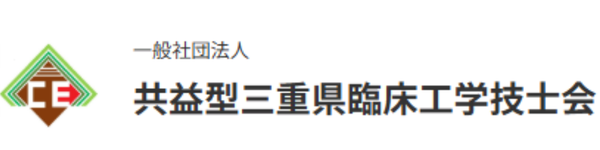
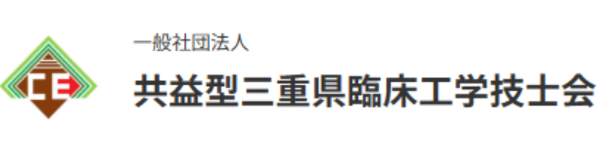
Add files via upload

Changed region(s): [[0.21, 0.48, 1.0, 0.7733], [0.0, 0.24, 0.18, 0.8533], [0.21, 0.2133, 0.42, 0.4]]

diff --git a/exhibition.html b/exhibition.html
@@ -28,6 +28,7 @@
         .index-item:hover { background: var(--primary-color); color: #fff; border-color: var(--primary-color); transform: translateY(-2px); box-shadow: 0 4px 10px rgba(0,0,0,0.1); }
         
         .company-showcase { margin-bottom: 60px; background: #fff; border-radius: 12px; box-shadow: 0 10px 30px rgba(0,0,0,0.05); overflow: hidden; border: 1px solid #f1f5f9; scroll-margin-top: 100px; }
+        .company-showcase:last-of-type { margin-bottom: 80px; }
         .company-header { background: #f8fafc; padding: 20px 30px; border-bottom: 1px solid #e2e8f0; display: flex; align-items: center; justify-content: space-between; }
         .company-header h3 { font-size: 1.5rem; color: var(--primary-color); margin: 0; display: flex; align-items: center; }
         .company-logo-area { background: #fff; padding: 10px; border-radius: 8px; border: 1px solid #e2e8f0; height: 60px; width: 180px; display: flex; align-items: center; justify-content: center; }
@@ -107,19 +108,49 @@
             <div id="company-index" class="exhibition-index">
                 <h3><i class="fas fa-search"></i> 出展企業一覧</h3>
                 <div class="index-grid">
-                    <a href="#sponsor-awl" class="index-item"><i class="fas fa-building"></i> エア・ウォーター・リンク</a>
                     <a href="#sponsor-ebmc" class="index-item"><i class="fas fa-building"></i> イービーエム</a>
-                    <a href="#sponsor-asp" class="index-item"><i class="fas fa-building"></i> ASP Japan</a>
+                    <a href="#sponsor-awl" class="index-item"><i class="fas fa-building"></i> エア・ウォーター・リンク</a>
+                    <a href="#sponsor-asp" class="index-item"><i class="fas fa-building"></i> ASP Japan合同会社</a>
+                    <a href="#sponsor-ms" class="index-item"><i class="fas fa-building"></i> エムエス</a>
                     <a href="#sponsor-cosmos" class="index-item"><i class="fas fa-building"></i> コスモスシステム</a>
                     <a href="#sponsor-takarabelmont" class="index-item"><i class="fas fa-building"></i> タカラベルモント</a>
                     <a href="#sponsor-terumo" class="index-item"><i class="fas fa-building"></i> テルモ</a>
-                    <!-- 🌟 目次に冨木医療器を追加 -->
                     <a href="#sponsor-tomiki" class="index-item"><i class="fas fa-building"></i> 冨木医療器</a>
+                    <!-- 🌟 目次に日本ストライカーを追加 -->
+                    <a href="#sponsor-stryker" class="index-item"><i class="fas fa-building"></i> 日本ストライカー</a>
                     <a href="#sponsor-nipro" class="index-item"><i class="fas fa-building"></i> ニプロ</a>
+                    <!-- 🌟 目次にLifescan Japanを追加 -->
+                    <a href="#sponsor-lifescan" class="index-item"><i class="fas fa-building"></i> Lifescan Japan</a>
                     <a href="#sponsor-miekinzoku" class="index-item"><i class="fas fa-building"></i> 三重金属工業</a>
                 </div>
             </div>
             
+            <div id="sponsor-ebmc" class="company-showcase">
+                <div class="company-header">
+                    <h3>イービーエム株式会社</h3>
+                    <div class="company-logo-area">
+                        <img src="images/sponsor_ebmc.png" alt="イービーエム">
+                    </div>
+                </div>
+                <div class="company-body">
+                    <div class="company-info">
+                        <h4>手技の「質」を高め、CEの職能向上を牽引する</h4>
+                        <p>高度な生体再現性を持つ血管モデルと、心拍動下での吻合訓練を可能にするシミュレータを提供し、臨床現場に出る前の「質の高い反復練習」を実現します。<br>
+                        特筆すべきは、臨床工学技士の「告示研修」で使用されるシミュレータを全て同社が手掛けているという点です。私たちの職能拡大と技術向上に最も深く関わり、チーム医療におけるCEの存在価値を高める強力なパートナー企業です。</p>
+                        <ul class="feature-list">
+                            <li>臨床工学技士「告示研修」のシミュレータを全面プロデュース</li>
+                            <li>ヒト組織の弾性・粘性を極限まで再現した血管モデル「YOUCAN」</li>
+                            <li>手技評価の客観化を可能にする拍動シミュレータ「BEAT」</li>
+                        </ul>
+                        <a href="https://ebmc.jp/" target="_blank" class="btn-visit">公式サイトを見る <i class="fas fa-external-link-alt"></i></a>
+                    </div>
+                    <div class="company-image" style="border: none; background: transparent;">
+                        <img src="images/exhibition_ebmc.jpg" alt="イービーエム シミュレータ製品写真">
+                    </div>
+                </div>
+                <a href="#company-index" class="back-to-index"><i class="fas fa-level-up-alt"></i> 出展企業一覧（目次）へ戻る</a>
+            </div>
+
             <div id="sponsor-awl" class="company-showcase">
                 <div class="company-header">
                     <h3>エア・ウォーター・リンク株式会社</h3>
@@ -146,37 +177,11 @@
                 <a href="#company-index" class="back-to-index"><i class="fas fa-level-up-alt"></i> 出展企業一覧（目次）へ戻る</a>
             </div>
 
-            <div id="sponsor-ebmc" class="company-showcase">
-                <div class="company-header">
-                    <h3>イービーエム株式会社</h3>
-                    <div class="company-logo-area">
-                        <img src="images/sponsor_ebmc.png" alt="イービーエム">
-                    </div>
-                </div>
-                <div class="company-body">
-                    <div class="company-info">
-                        <h4>手技の「質」を高め、CEの職能向上を牽引する</h4>
-                        <p>高度な生体再現性を持つ血管モデルと、心拍動下での吻合訓練を可能にするシミュレータを提供し、臨床現場に出る前の「質の高い反復練習」を実現します。<br>
-                        特筆すべきは、<strong>臨床工学技士の「告示研修」で使用されるシミュレータを全て同社が手掛けている</strong>という点です。私たちの職能拡大と技術向上に最も深く関わり、チーム医療におけるCEの存在価値を高める強力なパートナー企業です。</p>
-                        <ul class="feature-list">
-                            <li>臨床工学技士「告示研修」のシミュレータを全面プロデュース</li>
-                            <li>ヒト組織の弾性・粘性を極限まで再現した血管モデル「YOUCAN」</li>
-                            <li>手技評価の客観化を可能にする拍動シミュレータ「BEAT」</li>
-                        </ul>
-                        <a href="https://ebmc.jp/" target="_blank" class="btn-visit">公式サイトを見る <i class="fas fa-external-link-alt"></i></a>
-                    </div>
-                    <div class="company-image" style="border: none; background: transparent;">
-                        <img src="images/exhibition_ebmc.jpg" alt="イービーエム シミュレータ製品写真">
-                    </div>
-                </div>
-                <a href="#company-index" class="back-to-index"><i class="fas fa-level-up-alt"></i> 出展企業一覧（目次）へ戻る</a>
-            </div>
-
             <div id="sponsor-asp" class="company-showcase">
                 <div class="company-header">
-                    <h3>ASP Japan（アドバンスド・ステリライゼーション・プロダクツ・ジャパン株式会社）</h3>
+                    <h3>ASP Japan合同会社</h3>
                     <div class="company-logo-area">
-                        <img src="images/sponsor_asp.png" alt="ASP Japan">
+                        <img src="images/sponsor_asp.png" alt="ASP Japan合同会社">
                     </div>
                 </div>
                 <div class="company-body">
@@ -192,10 +197,40 @@
                         <a href="https://www.asp.com/ja-japan" target="_blank" class="btn-visit">公式サイトを見る <i class="fas fa-external-link-alt"></i></a>
                     </div>
                     <div class="company-image" style="border: none; background: transparent;">
-                        <img src="images/exhibition_asp.jpg" alt="ASP Japan 滅菌装置写真" onerror="this.style.display='none'; this.nextElementSibling.style.display='block';">
+                        <img src="images/exhibition_asp.jpg" alt="ASP Japan合同会社 滅菌装置写真" onerror="this.style.display='none'; this.nextElementSibling.style.display='block';">
                         <div style="text-align: center; display: none;">
                             <i class="fas fa-shield-virus"></i>
                             <p>Advanced Infection Control</p>
+                        </div>
+                    </div>
+                </div>
+                <a href="#company-index" class="back-to-index"><i class="fas fa-level-up-alt"></i> 出展企業一覧（目次）へ戻る</a>
+            </div>
+
+            <div id="sponsor-ms" class="company-showcase">
+                <div class="company-header">
+                    <h3>株式会社エムエス</h3>
+                    <div class="company-logo-area">
+                        <img src="images/sponsor_ms.png" alt="株式会社エムエス">
+                    </div>
+                </div>
+                <div class="company-body">
+                    <div class="company-info">
+                        <h4>100年の歴史が支える、手術室・中材の洗浄・滅菌ソリューション</h4>
+                        <p>1924年の創業から100年以上にわたり医療業界を支え続けてきた株式会社エムエスは、医療現場における感染制御のトップランナーとして、洗浄機や滅菌装置など信頼性の高い製品を提供しています。<br>
+                        とくに、手術室と中央材料室（CSSD）のシームレスな連携に欠かせないウォッシャーディスインフェクターや、コスト削減と確実な無菌性維持を同時に実現する次世代の「滅菌コンテナー」、過酸化水素ガス滅菌器シリーズを展開。「一次洗浄を廃止し、中央化一括処理を可能にする洗浄システム」の提案などを通じて、臨床工学技士や中材スタッフの感染リスク低減と圧倒的な業務負担の軽減に貢献しています。</p>
+                        <ul class="feature-list">
+                            <li>一次洗浄を廃止し、業務効率化を実現する中央化一括洗浄システムの提案</li>
+                            <li>コスト削減と確実な無菌性維持を両立する次世代「滅菌コンテナー」</li>
+                            <li>創業100年を超えるノウハウで、現場目線の設計カスタマイズと迅速な保守サポートを提供</li>
+                        </ul>
+                        <a href="https://www.ms-s.jp/index.php" target="_blank" class="btn-visit">公式サイトを見る <i class="fas fa-external-link-alt"></i></a>
+                    </div>
+                    <div class="company-image" style="border: none; background: transparent;">
+                        <img src="images/exhibition_ms.jpg" alt="株式会社エムエス 機器写真" onerror="this.style.display='none'; this.nextElementSibling.style.display='block';">
+                        <div style="text-align: center; display: none;">
+                            <i class="fas fa-hands-bubbles"></i>
+                            <p>Washing & Sterilization</p>
                         </div>
                     </div>
                 </div>
@@ -289,7 +324,6 @@
                 <a href="#company-index" class="back-to-index"><i class="fas fa-level-up-alt"></i> 出展企業一覧（目次）へ戻る</a>
             </div>
 
-            <!-- 🌟 新規ブース：冨木医療器（テルモとニプロの間） -->
             <div id="sponsor-tomiki" class="company-showcase">
                 <div class="company-header">
                     <h3>冨木医療器株式会社</h3>
@@ -321,6 +355,37 @@
                 <a href="#company-index" class="back-to-index"><i class="fas fa-level-up-alt"></i> 出展企業一覧（目次）へ戻る</a>
             </div>
 
+            <!-- 🌟 新規ブース：日本ストライカー株式会社（Mako＆ネプチューン3） -->
+            <div id="sponsor-stryker" class="company-showcase">
+                <div class="company-header">
+                    <h3>日本ストライカー株式会社</h3>
+                    <div class="company-logo-area">
+                        <img src="images/sponsor_stryker.png" alt="日本ストライカー">
+                    </div>
+                </div>
+                <div class="company-body">
+                    <div class="company-info">
+                        <h4>先進の整形外科ロボティクスと手術環境安全化の世界的リーダー</h4>
+                        <p>先進的な医療テクノロジーを牽引する日本ストライカーは、手術室の安全性・効率性を極限まで高める革新的なソリューションを提供しています。<br>
+                        人工関節置換術を強力にバックアップするサージカルロボット**「Mako（メイコー）」**は、CTデータに基づく緻密な術前計画と、骨の削りすぎを防ぐハプティック（触覚）技術により、術者の手技を驚異的な精度で再現。さらに、手術室の環境安全に革新をもたらす密閉式排液吸引システム**「ネプチューン3」**は、術中に発生する廃液やサージカルスモーク（手術煙）を完全に密閉吸引・処理することで、スタッフの術中感染や曝露リスクをゼロ化。臨床工学技士が保守管理する手術設備において、絶対的な信頼を誇るデバイス群です。</p>
+                        <ul class="feature-list">
+                            <li>人工関節置換術の精度と安全性を飛躍的に高めるサージカルロボット「Mako」の展開</li>
+                            <li>排液に一切触れない完全密閉・自動処理システム「ネプチューン3」による手術室の無菌化と安全担保</li>
+                            <li>整形医療から安全なオペ室内環境の構築まで、多角的な術中ワークフロー改善への貢献</li>
+                        </ul>
+                        <a href="https://www.stryker.com/jp/ja/index.html" target="_blank" class="btn-visit">公式サイトを見る <i class="fas fa-external-link-alt"></i></a>
+                    </div>
+                    <div class="company-image" style="border: none; background: transparent;">
+                        <img src="images/exhibition_stryker.jpg" alt="日本ストライカー 機器写真" onerror="this.style.display='none'; this.nextElementSibling.style.display='block';">
+                        <div style="text-align: center; display: none;">
+                            <i class="fas fa-robot"></i>
+                            <p>Advanced Surgical Robotics & Safety</p>
+                        </div>
+                    </div>
+                </div>
+                <a href="#company-index" class="back-to-index"><i class="fas fa-level-up-alt"></i> 出展企業一覧（目次）へ戻る</a>
+            </div>
+
             <div id="sponsor-nipro" class="company-showcase">
                 <div class="company-header">
                     <h3>ニプロ株式会社</h3>
@@ -343,6 +408,37 @@
                         <div style="text-align: center;">
                             <i class="fas fa-shield-halved"></i>
                             <p>Safety & Ergonomics</p>
+                        </div>
+                    </div>
+                </div>
+                <a href="#company-index" class="back-to-index"><i class="fas fa-level-up-alt"></i> 出展企業一覧（目次）へ戻る</a>
+            </div>
+
+            <!-- 🌟 新規ブース：Lifescan Japan株式会社 -->
+            <div id="sponsor-lifescan" class="company-showcase">
+                <div class="company-header">
+                    <h3>Lifescan Japan株式会社</h3>
+                    <div class="company-logo-area">
+                        <img src="images/sponsor_lifescan.png" alt="Lifescan Japan">
+                    </div>
+                </div>
+                <div class="company-body">
+                    <div class="company-info">
+                        <h4>周術期における厳格な血糖管理を支える、精密なPOCTソリューション</h4>
+                        <p>世界中の糖尿病管理をリードしてきたLifescan Japanは、医療機関向けの高精度な血糖測定システム（POCTデバイス）を通じ、周術期医療の質向上を根底から支援しています。<br>
+                        手術前後や術中における患者様の血糖変動は、術後感染症のリスクや全身管理に極めて大きな影響を及ぼします。同社の提供する病院用血糖測定システムは、一分一秒を争う緊迫した手術室内においても、極めて迅速かつ高い測定精度を発揮。さらに、電子カルテや院内ネットワークとのシームレスなデータ連携（トレーサビリティ）を実現することで、臨床工学技士が推進する医療機器のネットワーク管理・安全運用体制に強力に応えます。</p>
+                        <ul class="feature-list">
+                            <li>手術室やICUなどの急性期現場において、極めて高い測定精度を誇る病院用血糖測定システム</li>
+                            <li>測定データを電子カルテへ自動転送し、ヒューマンエラー排除とシームレスな周術期管理を実現</li>
+                            <li>厳格な安全管理をクリアし、スタッフの使いやすさを追求したデバイス設計</li>
+                        </ul>
+                        <a href="https://www.lifescan.co.jp/" target="_blank" class="btn-visit">公式サイトを見る <i class="fas fa-external-link-alt"></i></a>
+                    </div>
+                    <div class="company-image" style="border: none; background: transparent;">
+                        <img src="images/exhibition_lifescan.jpg" alt="Lifescan Japan 製品写真" onerror="this.style.display='none'; this.nextElementSibling.style.display='block';">
+                        <div style="text-align: center; display: none;">
+                            <i class="fas fa-droplet"></i>
+                            <p>Precision Glucose Management</p>
                         </div>
                     </div>
                 </div>

diff --git a/index.html b/index.html
@@ -52,7 +52,7 @@
                 <ul class="nav-links">
                     <li><a href="index.html" class="active">開催概要</a></li>
                     <li><a href="greeting.html">ご挨拶</a></li>
-                    <li><a href="sankasya-annai.html">参加者案内</a></li>
+                    <li><a href="sankasya-annas.html">参加者案内</a></li>
                     <li><a href="program.html">プログラム</a></li>
                     <li><a href="guidelines.html">座長・発表者へ</a></li>
                     <li><a href="abstract-submission.html">演題登録</a></li>
@@ -105,7 +105,7 @@
                     <dd>山口 翔（医療法人 永井病院 臨床工学室）</dd>
                     
                     <dt>会期</dt>
-                    <dd>2027年2月14日(<span style="color: #e74c3c; font-weight: bold;">日</span>)</dd>
+                    <dd>2027年2月14日(<span>日</span>)</dd>
                     
                     <dt>会場</dt>
                     <dd>松阪市産業振興センター（詳細は<a href="venue.html" style="text-decoration: underline; font-weight: bold;">会場・周辺案内</a>をご覧ください）</dd>
@@ -117,17 +117,20 @@
             <h2 class="section-title">協賛企業</h2>
             <div class="banner-container-grid">
                 
-                <a href="https://www.awlink.co.jp/" target="_blank" class="banner-link-card">
-                    <img src="images/sponsor_awl.png" alt="エア・ウォーター・リンク株式会社">
-                </a>
-
                 <a href="https://ebmc.jp/" target="_blank" class="banner-link-card">
                     <img src="images/sponsor_ebmc.png" alt="イービーエム株式会社">   
                 </a>
 
-                <!-- 🌟 ASP Japan合同会社 修正 -->
+                <a href="https://www.awlink.co.jp/" target="_blank" class="banner-link-card">
+                    <img src="images/sponsor_awl.png" alt="エア・ウォーター・リンク株式会社">
+                </a>
+
                 <a href="https://www.asp.com/ja-japan" target="_blank" class="banner-link-card">
                     <img src="images/sponsor_asp.png" alt="ASP Japan合同会社">
+                </a>
+
+                <a href="https://www.ms-s.jp/index.php" target="_blank" class="banner-link-card">
+                    <img src="images/sponsor_ms.png" alt="株式会社エムエス">
                 </a>
 
                 <a href="https://cosmossystem.co.jp/" target="_blank" class="banner-link-card">
@@ -146,8 +149,18 @@
                     <img src="images/sponsor_tomiki.png" alt="冨木医療器株式会社">
                 </a>
 
+                <!-- 🌟 日本ストライカー 追加 -->
+                <a href="https://www.stryker.com/jp/ja/index.html" target="_blank" class="banner-link-card">
+                    <img src="images/sponsor_stryker.png" alt="日本ストライカー株式会社">
+                </a>
+
                 <a href="https://www.nipro.co.jp/" target="_blank" class="banner-link-card">
                     <img src="images/sponsor_nipro.png" alt="ニプロ株式会社">
+                </a>
+
+                <!-- 🌟 Lifescan Japan 追加 -->
+                <a href="https://www.lifescan.co.jp/" target="_blank" class="banner-link-card">
+                    <img src="images/sponsor_lifescan.png" alt="Lifescan Japan株式会社">
                 </a>
 
                 <a href="https://www.miekin.co.jp/" target="_blank" class="banner-link-card">

diff --git a/links.html b/links.html
@@ -86,9 +86,13 @@
                 </a>
 
                 <a href="https://www.asp.com/ja-japan" target="_blank" class="link-item-card">
-                    ASP Japan（アドバンスド・ステリライゼーション・プロダクツ・ジャパン株式会社） <i class="fas fa-external-link-alt"></i>
+                    ASP Japan合同会社 <i class="fas fa-external-link-alt"></i>
                 </a>
                 
+                <a href="https://www.ms-s.jp/index.php" target="_blank" class="link-item-card">
+                    株式会社エムエス <i class="fas fa-external-link-alt"></i>
+                </a>
+
                 <a href="https://cosmossystem.co.jp/" target="_blank" class="link-item-card">
                     コスモスシステム株式会社 <i class="fas fa-external-link-alt"></i>
                 </a>
@@ -101,13 +105,22 @@
                     テルモ株式会社 <i class="fas fa-external-link-alt"></i>
                 </a>
                 
-                <!-- 🌟 【と】冨木医療器 追加 -->
                 <a href="https://tomiki.co.jp/" target="_blank" class="link-item-card">
                     冨木医療器株式会社 <i class="fas fa-external-link-alt"></i>
+                </a>
+
+                <!-- 🌟 【に】日本ストライカー 追加 -->
+                <a href="https://www.stryker.com/jp/ja/index.html" target="_blank" class="link-item-card">
+                    日本ストライカー株式会社 <i class="fas fa-external-link-alt"></i>
                 </a>
                 
                 <a href="https://www.nipro.co.jp/" target="_blank" class="link-item-card">
                     ニプロ株式会社 <i class="fas fa-external-link-alt"></i>
+                </a>
+
+                <!-- 🌟 【ら】Lifescan Japan 追加 -->
+                <a href="https://www.lifescan.co.jp/" target="_blank" class="link-item-card">
+                    Lifescan Japan株式会社 <i class="fas fa-external-link-alt"></i>
                 </a>
 
                 <a href="https://www.miekin.co.jp/" target="_blank" class="link-item-card">